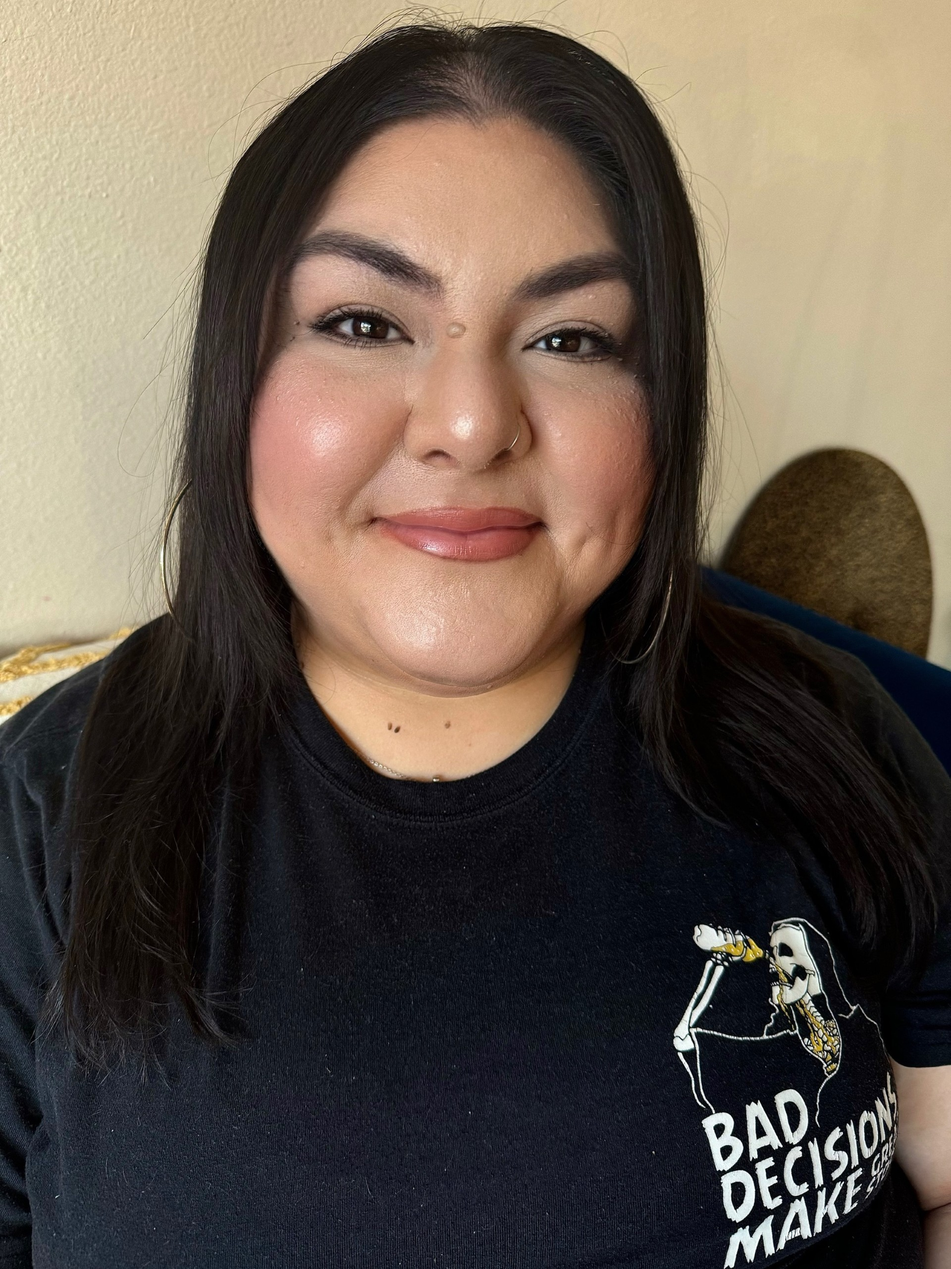
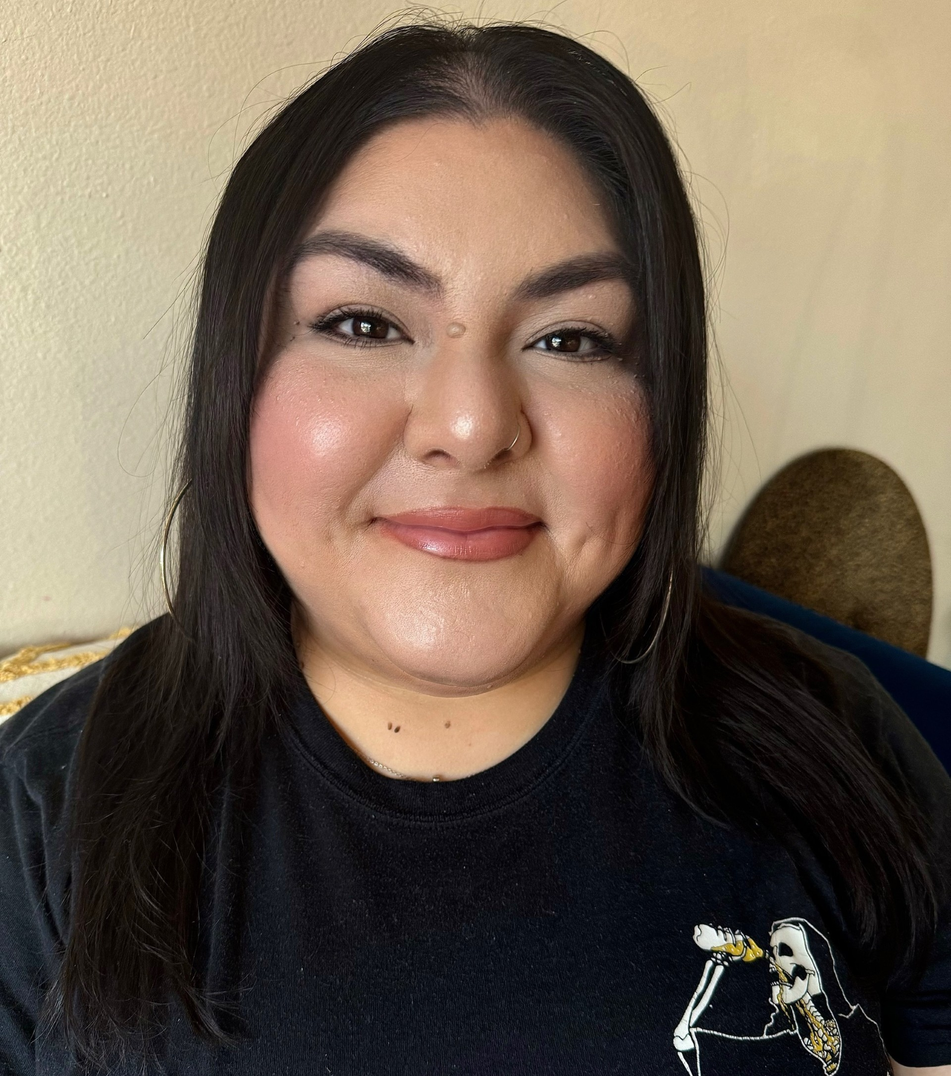
photo updates

diff --git a/team.html b/team.html
@@ -204,7 +204,7 @@
           <!-- Amy -->
           <article class="team-card">
             <div class="team-photo" aria-hidden="true">
-              <img src="images/placeholder-person.jpg" alt="" />
+              <img src="images/profilepictures/amy-prof.jpg" alt="" />
             </div>
             <div class="team-info">
               <div class="team-text">
@@ -306,7 +306,7 @@
           <!-- Josie -->
           <article class="team-card">
             <div class="team-photo" aria-hidden="true">
-              <img src="images/placeholder-person.jpg" alt="" />
+              <img src="images/profilepictures/josie-prof.jpg" alt="" />
             </div>
             <div class="team-info">
               <div class="team-text">
@@ -340,7 +340,7 @@
           <!-- Karina -->
           <article class="team-card">
             <div class="team-photo" aria-hidden="true">
-              <img src="images/placeholder-person.jpg" alt="" />
+              <img src="images/profilepictures/karina-prof.jpg" alt="" />
             </div>
             <div class="team-info">
               <div class="team-text">
@@ -357,7 +357,7 @@
           <!-- Kelli -->
           <article class="team-card">
             <div class="team-photo" aria-hidden="true">
-              <img src="images/placeholder-person.jpg" alt="" />
+              <img src="images/profilepictures/kelli-prof.jpg" alt="" />
             </div>
             <div class="team-info">
               <div class="team-text">
@@ -483,14 +483,14 @@
             </div>
           </article>
 
-          <!-- Therea -->
+          <!-- Theresa -->
           <article class="team-card">
             <div class="team-photo" aria-hidden="true">
-              <img src="images/placeholder-person.jpg" alt="" />
+              <img src="images/profilepictures/theresa-prof.jpg" alt="" />
             </div>
             <div class="team-info">
               <div class="team-text">
-                <h4 class="team-name">Therea</h4>
+                <h4 class="team-name">Theresa</h4>
                 <p class="team-role">Stylist</p>
                 <a class="team-phone" href="tel:+19793247731">(979) 324-7731</a>
               </div>
